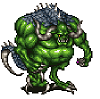
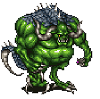
sprites transparentes y ajuste camara

Changed region(s): [[0.0, 0.0303, 0.93, 0.9697]]

diff --git a/docs/game.js b/docs/game.js
@@ -89,7 +89,7 @@ export default class Game extends Phaser.Scene {
 
 }
   update(time, delta) {  
-    this.cameras.main.centerOnY( this.player.getY());
+    this.cameras.main.centerOnY( this.player.getY() + 100);
 
     //console.log(this.cameras.main.height);
     this.cameras.main.setSize(1500,600);
